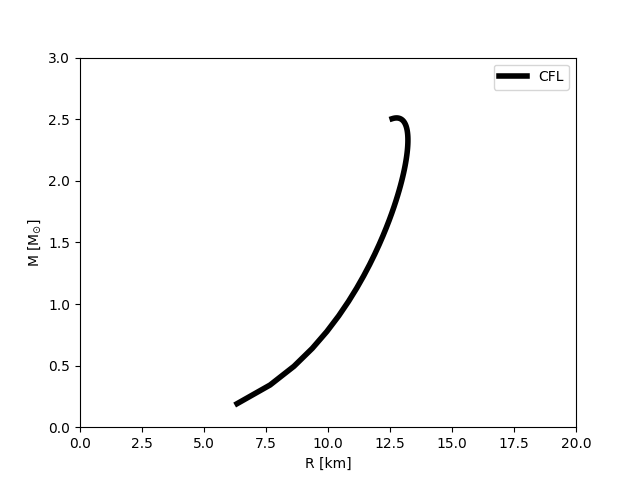
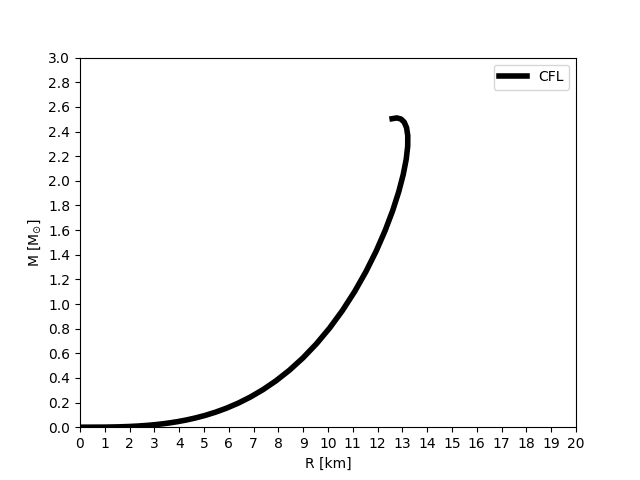
Modifying axis ticks frequency in solution_plotter.py.

diff --git a/main_op.py b/main_op.py
@@ -18,7 +18,7 @@ Array = np.ndarray
 
 
 def main() -> None:
-    #create_stars(np.linspace(5, 300, 100), TOVInput(CFL(70)), './Huang_2026/CFL_B70_d160_ms150_lin_5_300_100.csv')
+    #create_stars(np.geomspace(1e-9, 300, 150), TOVInput(CFL(70)), '/home/gustavo/Quarks/Huang_2026/figura_1/CFL_B70_d160_ms150_geom_1e-9_300_150.csv')
 
     """
     plot_eos([MasslessMITBM(60), MasslessMITBM(90), 
@@ -34,8 +34,8 @@ def main() -> None:
     
     x: str = 'radius'
     y: str = 'mass'
-    input_folder: str = '/home/gustavo/Quarks//Huang_2026/figura_1/'
-    output_folder: str = '/home/gustavo/Quarks//Huang_2026/Figura_2.png'
+    input_folder: str = '/home/gustavo/Quarks/Huang_2026/figura_1/'
+    output_folder: str = '/home/gustavo/Quarks/Huang_2026/Figura_2.png'
     labels: list[str] = ['CFL']
     linestyles: list[str] = ['-']
     colors: list[str] = ['black']
@@ -63,7 +63,7 @@ def create_stars(central_pressures: Array, tov_input: TOVInput, path: str) -> No
     stars.to_csv(path)
     
     end = time.time()
-    print('Done!')
+    print('Stars created!')
     print(f'Time to complete: {end - start:.2f} s')
 
 

diff --git a/neutron_stars_computer/figures_two_fluid/solution_plotter.py b/neutron_stars_computer/figures_two_fluid/solution_plotter.py
@@ -2,11 +2,14 @@ import numpy as np
 import pandas as pd
 from pathlib import Path
 import matplotlib.pyplot as plt
+import matplotlib.ticker as ticker
 
 Array = np.ndarray
 
 def plot_solution(x: str, y: str, input_folder: str, output_folder: str, labels: list[str], linestyles: list[str], colors: list[str], 
 	xlim: tuple,  ylim: tuple, linewidth: float, xlabel: str, ylabel: str, fontsize: str) -> None:
+	print('Creating a figure...')
+
 	fig, ax = plt.subplots()
 
 	folder_path = Path(input_folder)
@@ -14,10 +17,15 @@ def plot_solution(x: str, y: str, input_folder: str, output_folder: str, labels:
 	for f, label, linestyle, color in zip(folder_path.iterdir(), labels, linestyles, colors):
 		pd.read_csv(input_folder + f.name).plot(x, y, xlim=xlim, ylim=ylim, ax=ax, 
 			label=label, linestyle=linestyle, color=color, linewidth=linewidth)
-
+        
+    
+	ax.xaxis.set_major_locator(ticker.MultipleLocator(1))
+	ax.yaxis.set_major_locator(ticker.MultipleLocator(0.2))
 
 	plt.xlabel(xlabel)
 	plt.ylabel(ylabel)
 	#plt.legend(fontsize)
 
 	plt.savefig(output_folder)   
+
+	print('Figure created!')
